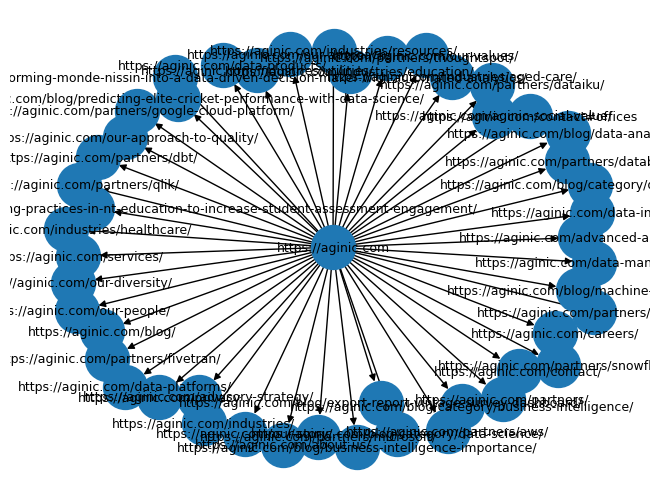
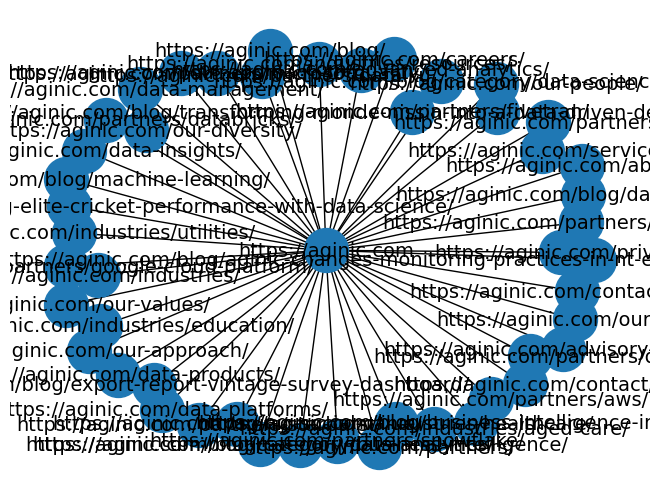
Change get_internal_links to create_nodes

diff --git a/content-mindmap.py b/content-mindmap.py
@@ -4,17 +4,25 @@ from urllib.parse import urlparse
 import networkx as nx
 import matplotlib.pyplot as plt
 
+
 class WebsiteContentMap:
     """
     This class is used to generate a mindmap of website content, based on a url.
     """
     def __init__(self, url):
         self.url = url
-    
+        self.nodes = []
+
     def get_url(self):
         return self.url
-    
-    def get_internal_links(self):
+
+    def get_nodes(self) -> list:
+        return self.nodes
+
+    def set_nodes(self, nodes: list) -> None:
+        self.nodes = nodes
+
+    def create_nodes(self):
         url = self.get_url()
         links = []
         r = requests.get(url)
@@ -24,25 +32,25 @@ class WebsiteContentMap:
             href = link.get('href')
             if href is not None and urlparse(href).netloc == urlparse(url).netloc:
                 links.append(href)
-        return links
-    
+        self.set_nodes(links)
+
     def create_mind_map(self):
-        url = self.get_url()
         g = nx.DiGraph()
-        root_url = urlparse(url).scheme + '://' + urlparse(url).netloc
+        root_url = urlparse(self.url).scheme + '://' + urlparse(self.url).netloc
         g.add_node(root_url)
         visited = set([root_url])
         queue = [root_url]
+        self.create_nodes()  # extract links once
         while queue:
             current_url = queue.pop(0)
-            for link in self.get_internal_links():
+            for link in self.get_nodes():
                 if link not in visited:
                     visited.add(link)
                     queue.append(link)
                     g.add_node(link)
                     g.add_edge(current_url, link)
-        pos = nx.spring_layout(g)
-        nx.draw(g, pos, with_labels=True, node_size=1000, font_size=9)
+        pos = nx.spring_layout(g, seed=42)
+        nx.draw(g, pos, with_labels=True, node_size=1000, font_size=14, arrows=False)
         plt.savefig('mindmap.png', bbox_inches='tight')
 
 
